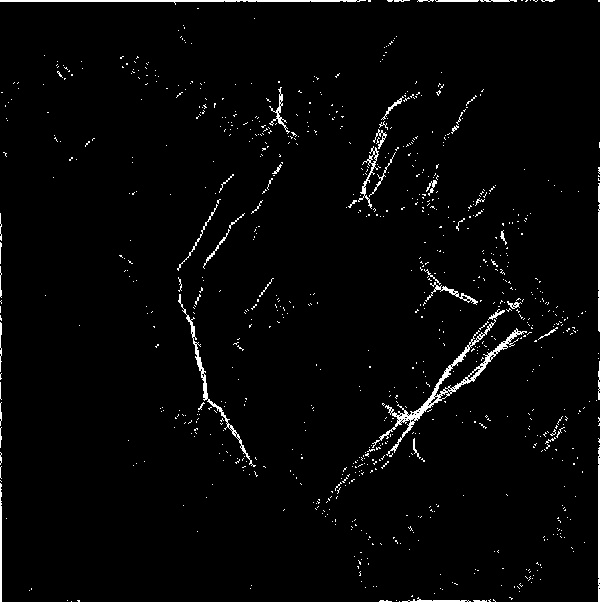
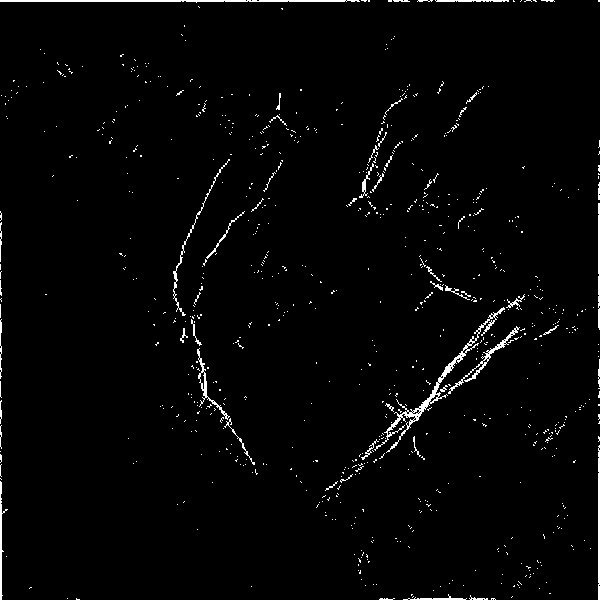
Working model predictions

diff --git a/train.py b/train.py
@@ -9,7 +9,7 @@ classes = ["left", "right"]
 hand = "right"
 pic = np.array(Image.open(hand + "Edited/thr" + str(0) + ".jpg"))
 train_images = np.array([pic])
-train_labels = np.array([1]*15)
+train_labels = np.array([1]*15 + [0]*15)
 
 for i in range(1, 15):
     pic = np.array(Image.open(hand + "Edited/thr" + str(i) + ".jpg"))
@@ -17,11 +17,39 @@ for i in range(1, 15):
 
 pic = np.array(Image.open(hand + "Edited/thr" + str(15) + ".jpg"))
 test_images = np.array([pic])
-test_labels = np.array([1]*5)
+test_labels = np.array([1]*5 + [0]*5)
 
 for i in range(16, 20):
     pic = np.array(Image.open(hand + "Edited/thr" + str(i) + ".jpg"))
     test_images = np.vstack((test_images, np.array([pic])))
 
-print train_images.shape
-print test_images.shape
+hand = "left"
+for i in range(15):
+    pic = np.array(Image.open(hand + "Edited/thr" + str(i) + ".jpg"))
+    train_images = np.vstack((train_images, np.array([pic])))
+
+for i in range(15, 20):
+    pic = np.array(Image.open(hand + "Edited/thr" + str(i) + ".jpg"))
+    test_images = np.vstack((test_images, np.array([pic])))
+
+train_images = train_images / 255.0
+test_images = test_images / 255.0
+
+model = keras.Sequential([
+    keras.layers.Flatten(input_shape=(600, 600)),
+    keras.layers.Dense(64, activation=tf.nn.relu),
+    keras.layers.Dense(2, activation=tf.nn.softmax)
+])
+
+model.compile(optimizer=tf.train.AdamOptimizer(), 
+        loss='sparse_categorical_crossentropy',
+        metrics=['accuracy'])
+
+model.fit(train_images, train_labels, epochs=5)
+test_loss, test_acc = model.evaluate(test_images, test_labels)
+
+print('Test accuracy:', test_acc)
+
+predictions = model.predict(test_images)
+for i in range(len(predictions)):
+    print (classes[np.argmax(predictions[i])], classes[test_labels[i]])

diff --git a/palm.py b/palm.py
@@ -3,7 +3,7 @@ import numpy as np
 
 hand = "left"
 
-for i in range(20):
+for i in range(10,11):
     print i
     img = cv2.imread(hand + 'Edited/' + hand + str(i) + '.jpg')
 
@@ -50,7 +50,7 @@ for i in range(20):
     ret, thr = cv2.threshold(skel, 5,255, cv2.THRESH_BINARY);
 
     #cv2.imwrite("img/skel.jpg", skel)
-    cv2.imwrite("leftEdited/thr" + str(i) + ".jpg", thr)
+    cv2.imwrite(hand + "Edited/thr" + str(i) + ".jpg", thr)
 
     # SIFT
     #sift = cv2.xfeatures2d.SURF_create()
